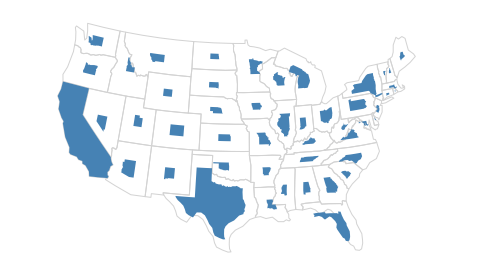
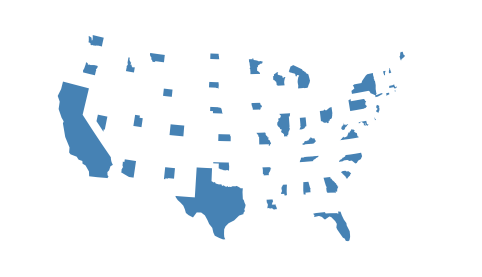
Simplify cartogram by removing trace. (#113)

diff --git a/geoplot/geoplot.py b/geoplot/geoplot.py
@@ -1008,7 +1008,6 @@ def quadtree(
 def cartogram(
     df, projection=None,
     scale=None, limits=(0.2, 1), scale_func=None,
-    trace=True, trace_kwargs=None,
     hue=None, cmap='viridis', k=5, scheme=None,
     legend=False, legend_values=None, legend_labels=None, legend_kwargs=None, legend_var="scale",
     extent=None, figsize=(8, 6), ax=None, **kwargs
@@ -1093,86 +1092,51 @@ def cartogram(
 
     .. image:: ../figures/cartogram/cartogram-initial.png
 
-    Toggle the gray outline with ``trace`` and the legend with ``legend``.
-    Keyword arguments can be passed to the legend using the ``legend_kwargs`` argument. These
-    arguments will be passed to the underlying ``matplotlib.legend.Legend`` instance (`ref
-    <http://matplotlib.org/api/legend_api.html#matplotlib.legend.Legend>`_).
+    Toggle the legend with ``legend``. Keyword arguments can be passed to the legend using the
+    ``legend_kwargs`` argument. These arguments will be passed to the underlying
+    `matplotlib.legend.Legend
+    <http://matplotlib.org/api/legend_api.html#matplotlib.legend.Legend>`_ instance.
 
     .. code-block:: python
 
         gplt.cartogram(
-            contiguous_usa, scale='population', trace=False, projection=gcrs.AlbersEqualArea(),
+            contiguous_usa, scale='population', projection=gcrs.AlbersEqualArea(),
             legend=True, legend_kwargs={'loc': 'lower right'}
         )
 
     .. image:: ../figures/cartogram/cartogram-trace-legend.png
 
-    Additional arguments to ``cartogram`` will be interpreted as keyword arguments for the scaled
-    polygons, using `matplotlib Polygon patch
-    <http://matplotlib.org/api/patches_api.html#matplotlib.patches.Polygon>`_ rules.
+    To add a colormap to the plot, specify ``hue``. Use ``cmap`` to control the colormap used
+    and ``k`` to control the number of color bins. In this plot we also add a backing outline
+    of the original state shapes, for better geospatial context.
 
     .. code-block:: python
 
-        gplt.cartogram(
-            boroughs, scale='Population Density', projection=gcrs.AlbersEqualArea(),
-            edgecolor='darkgreen'
+        ax = gplt.cartogram(
+            contiguous_usa, scale='population', projection=gcrs.AlbersEqualArea(),
+            legend=True, legend_kwargs={'bbox_to_anchor': (1, 0.9)}, legend_var='hue',
+            hue='population', cmap='Greens',
         )
+        gplt.polyplot(contiguous_usa, facecolor='lightgray', edgecolor='white', ax=ax)
 
-    .. image:: ../figures/cartogram/cartogram-kwargs.png
+    .. image:: ../figures/cartogram/cartogram-cmap.png
 
-    Manipulate the outlines use the ``trace_kwargs`` argument, which accepts the same 
-    `matplotlib Polygon patch <http://matplotlib.org/api/patches_api.html#matplotlib.patches.Polygon>`_
-    parameters.
-
-    .. code-block:: python
-
-        gplt.cartogram(
-            boroughs, scale='Population Density', projection=gcrs.AlbersEqualArea(),
-            trace_kwargs={'edgecolor': 'lightgreen'}
-        )
-
-    .. image:: ../figures/cartogram/cartogram-trace-kwargs.png
-
-    Adjust the level of scaling to apply using the ``limits`` parameter.
+    Use the ``limits`` parameter to adjust the minimum and maximum scaling factors. You can also
+    pass a custom scaling function to ``scale_func`` to apply a different scale to the plot (the
+    default scaling function is linear); see the `USA City Elevations demo 
+    <https://residentmario.github.io/geoplot/examples/usa-city-elevations.html>`_ for an example.
 
     .. code-block:: python
 
-        gplt.cartogram(
-            boroughs, scale='Population Density', projection=gcrs.AlbersEqualArea(),
+        ax = gplt.cartogram(
+            contiguous_usa, scale='population', projection=gcrs.AlbersEqualArea(),
+            legend=True, legend_kwargs={'bbox_to_anchor': (1, 0.9)}, legend_var='hue',
+            hue='population', cmap='Greens',
             limits=(0.5, 1)
         )
+        gplt.polyplot(contiguous_usa, facecolor='lightgray', edgecolor='white', ax=ax)
 
     .. image:: ../figures/cartogram/cartogram-limits.png
-
-    The default scaling function is linear: an observations at the midpoint of two others will be
-    exactly midway between them in size. To specify an alternative scaling function, use the
-    ``scale_func`` parameter. This should be a factory function of two variables which, when
-    given the maximum and minimum of the dataset, returns a scaling function which will be applied
-    to the rest of the data. A demo is available in the
-    `example gallery <examples/usa-city-elevations.html>`_.
-
-    .. code-block:: python
-
-        def trivial_scale(minval, maxval): return lambda v: 2
-        gplt.cartogram(
-            boroughs, scale='Population Density', projection=gcrs.AlbersEqualArea(),
-            limits=(0.5, 1), scale_func=trivial_scale
-        )
-
-    .. image:: ../figures/cartogram/cartogram-scale-func.png
-
-    ``cartogram`` also provides the same ``hue`` visual variable parameters provided by
-    e.g. ``pointplot``. For more information on ``hue``-related arguments, see the related sections
-    in the ``pointplot`` `documentation <./pointplot.html>`_.
-
-    .. code-block:: python
-
-        gplt.cartogram(
-            boroughs, scale='Population Density', projection=gcrs.AlbersEqualArea(),
-            hue='Population Density', k=None, cmap='Blues'
-        )
-
-    .. image:: ../figures/cartogram/cartogram-hue.png
     """
     if scale is None:
         raise ValueError("No scale parameter provided.")
@@ -1189,35 +1153,6 @@ def cartogram(
             if len(self.df.geometry) == 0:
                 return ax
 
-            trace = self.kwargs.pop('trace', None)
-            trace_kwargs = self.kwargs.pop('trace_kwargs', None)
-
-            # Manipulate trace_kwargs.
-            if trace is not None:
-                if trace_kwargs is None:
-                    trace_kwargs = dict()
-                if 'edgecolor' not in trace_kwargs:
-                    trace_kwargs['edgecolor'] = 'lightgray'
-                if 'facecolor' not in trace_kwargs:
-                    trace_kwargs['facecolor'] = 'None'
-
-            # Draw traces first, if appropriate.
-            if trace:
-                if self.projection is not None:
-                    for polygon in self.df.geometry:
-                        features = ShapelyFeature([polygon], ccrs.PlateCarree())
-                        ax.add_feature(features, **trace_kwargs)
-                else:
-                    for polygon in self.df.geometry:
-                        try:  # Duck test for MultiPolygon.
-                            for subgeom in polygon:
-                                feature = descartes.PolygonPatch(subgeom, **trace_kwargs)
-                                ax.add_patch(feature)
-                        except (TypeError, AssertionError):  # Shapely Polygon.
-                            feature = descartes.PolygonPatch(polygon, **trace_kwargs)
-                            ax.add_patch(feature)
-
-            # Finally, draw the scaled geometries.
             for value, color, polygon in zip(self.sizes, self.colors, self.df.geometry):
                 scale_factor = value
                 scaled_polygon = shapely.affinity.scale(
@@ -1245,7 +1180,6 @@ def cartogram(
         df, projection=projection,
         figsize=figsize, ax=ax, extent=extent,
         scale=scale, limits=limits, scale_func=scale_func,
-        trace=trace, trace_kwargs=trace_kwargs,
         hue=hue, scheme=scheme, k=k, cmap=cmap,
         legend=legend, legend_values=legend_values, legend_labels=legend_labels,
         legend_kwargs=legend_kwargs, legend_var=legend_var,
